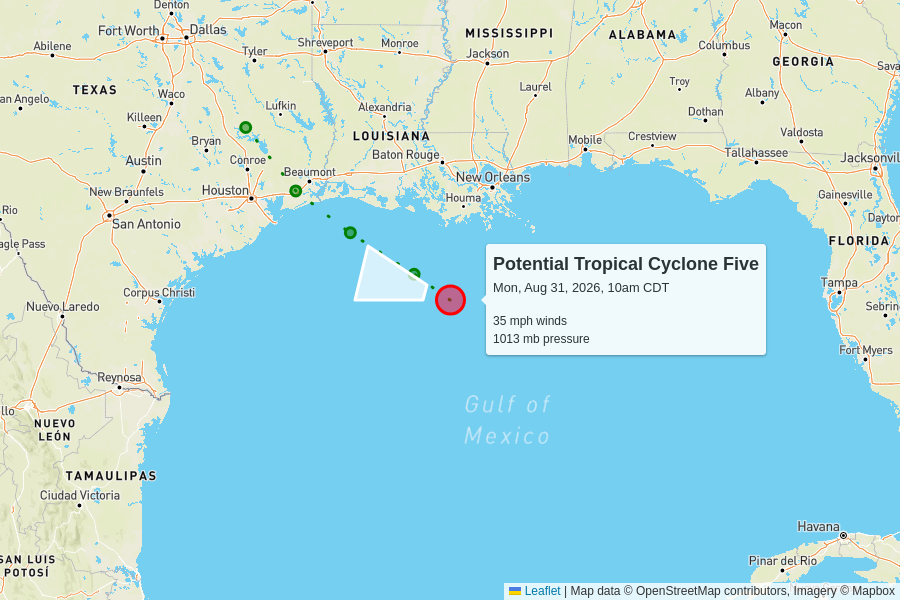
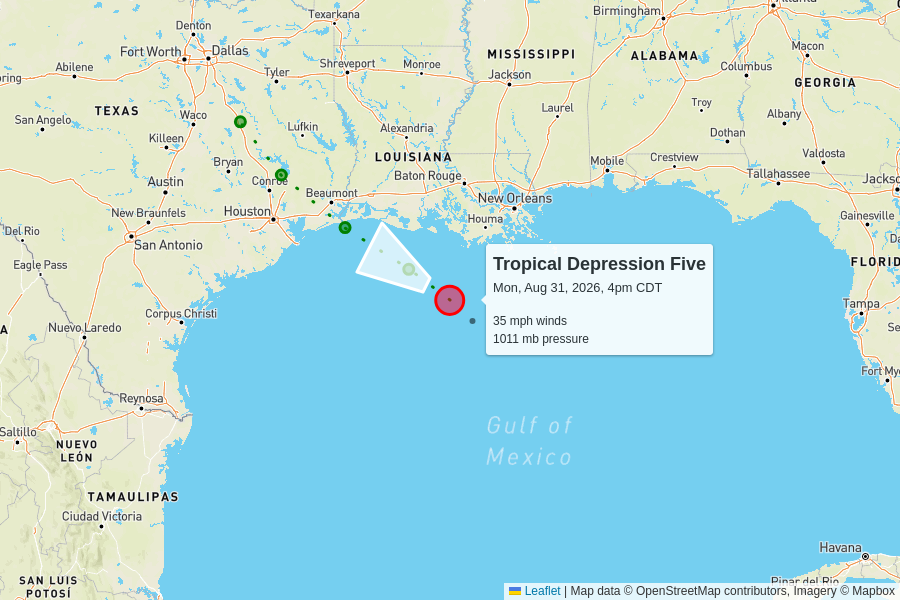
automatic update

diff --git a/docs/2026.html b/docs/2026.html
@@ -45,13 +45,13 @@
       <grid-container>
           <grid-row>
             <script type="text/json" id="storm_data_AL052026">
-              {"pressure":[{"timestamp":"2026-08-31T15:00:00.000Z","value":1013}],"wind":[{"timestamp":"2026-08-31T15:00:00.000Z","value":35}]}
+              {"pressure":[{"timestamp":"2026-08-31T15:00:00.000Z","value":1013},{"timestamp":"2026-08-31T21:00:00.000Z","value":1011}],"wind":[{"timestamp":"2026-08-31T15:00:00.000Z","value":35},{"timestamp":"2026-08-31T21:00:00.000Z","value":35}]}
             </script>              <grid-container class="storm">
                 <grid-row onClick="toggle('storm_AL052026')">
                   <h2>
-                    Potential Tropical Cyclone Five
+                    Tropical Depression Five
                     <div class="updated">
-                      last updated <time datetime="2026-08-31T15:00:00.000Z">2026-08-31T15:00:00.000Z</time>
+                      last updated <time datetime="2026-08-31T21:00:00.000Z">2026-08-31T21:00:00.000Z</time>
                     </div>
                   </h2>
                 </grid-row>
@@ -69,17 +69,17 @@
                         <td>
                           35 mph
                           <br>
-                          
+                          0 mph since last update
                         </td>
                         <td>
-                          1013 mb
+                          1011 mb
                           <br>
-                          
+                          -2 mb since last update
                         </td>
                         <td>
-                          5 mph to the west-northwest
+                          6 mph to the west-northwest
                           <br>
-                          <span style="display: inline-block; font-size: 1.5em; transform: rotate(285deg);">↑</span>
+                          <span style="display: inline-block; font-size: 1.5em; transform: rotate(300deg);">↑</span>
                         </td>
                         <td>
                           <a href="https://raw.githubusercontent.com/mgwalker/atlantic-hurricanes/main/data/csv/AL052026.csv">AL052026.csv</a>

diff --git a/docs/index.html b/docs/index.html
@@ -45,13 +45,13 @@
       <grid-container>
           <grid-row>
             <script type="text/json" id="storm_data_AL052026">
-              {"pressure":[{"timestamp":"2026-08-31T15:00:00.000Z","value":1013}],"wind":[{"timestamp":"2026-08-31T15:00:00.000Z","value":35}]}
+              {"pressure":[{"timestamp":"2026-08-31T15:00:00.000Z","value":1013},{"timestamp":"2026-08-31T21:00:00.000Z","value":1011}],"wind":[{"timestamp":"2026-08-31T15:00:00.000Z","value":35},{"timestamp":"2026-08-31T21:00:00.000Z","value":35}]}
             </script>              <grid-container class="storm">
                 <grid-row onClick="toggle('storm_AL052026')">
                   <h2>
-                    Potential Tropical Cyclone Five
+                    Tropical Depression Five
                     <div class="updated">
-                      last updated <time datetime="2026-08-31T15:00:00.000Z">2026-08-31T15:00:00.000Z</time>
+                      last updated <time datetime="2026-08-31T21:00:00.000Z">2026-08-31T21:00:00.000Z</time>
                     </div>
                   </h2>
                 </grid-row>
@@ -69,17 +69,17 @@
                         <td>
                           35 mph
                           <br>
-                          
+                          0 mph since last update
                         </td>
                         <td>
-                          1013 mb
+                          1011 mb
                           <br>
-                          
+                          -2 mb since last update
                         </td>
                         <td>
-                          5 mph to the west-northwest
+                          6 mph to the west-northwest
                           <br>
-                          <span style="display: inline-block; font-size: 1.5em; transform: rotate(285deg);">↑</span>
+                          <span style="display: inline-block; font-size: 1.5em; transform: rotate(300deg);">↑</span>
                         </td>
                         <td>
                           <a href="https://raw.githubusercontent.com/mgwalker/atlantic-hurricanes/main/data/csv/AL052026.csv">AL052026.csv</a>
